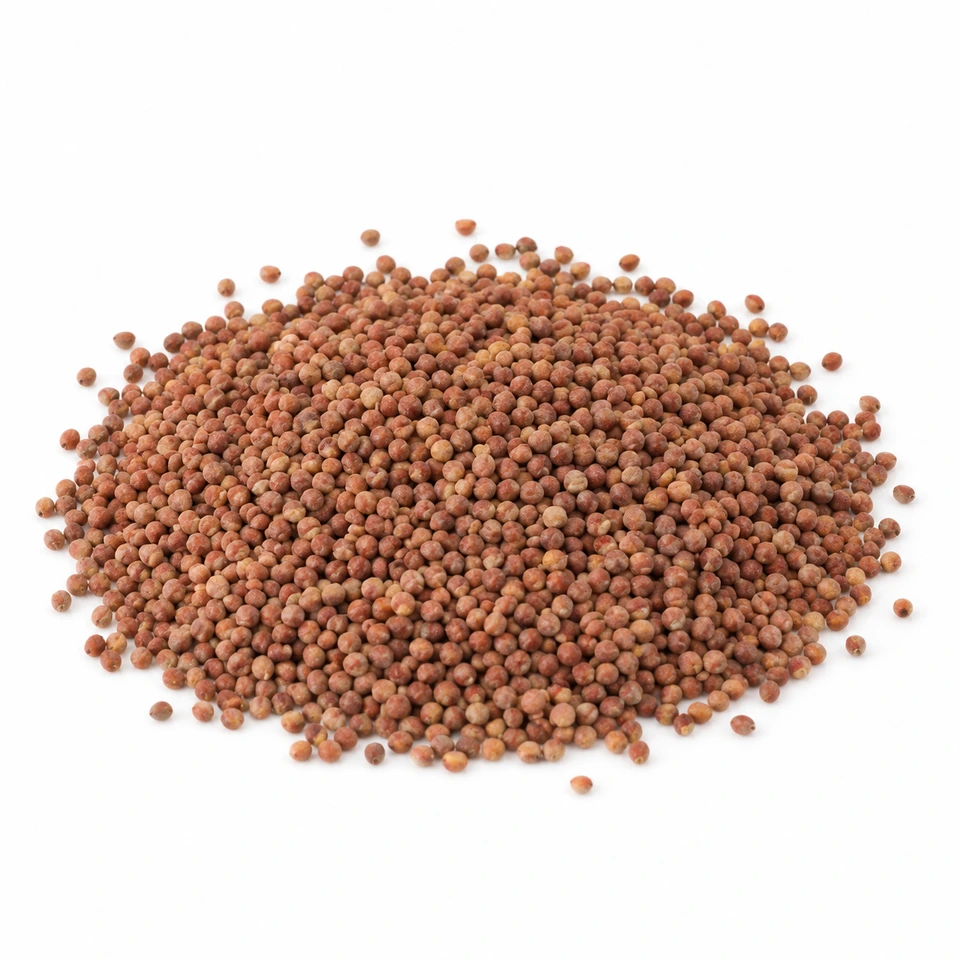
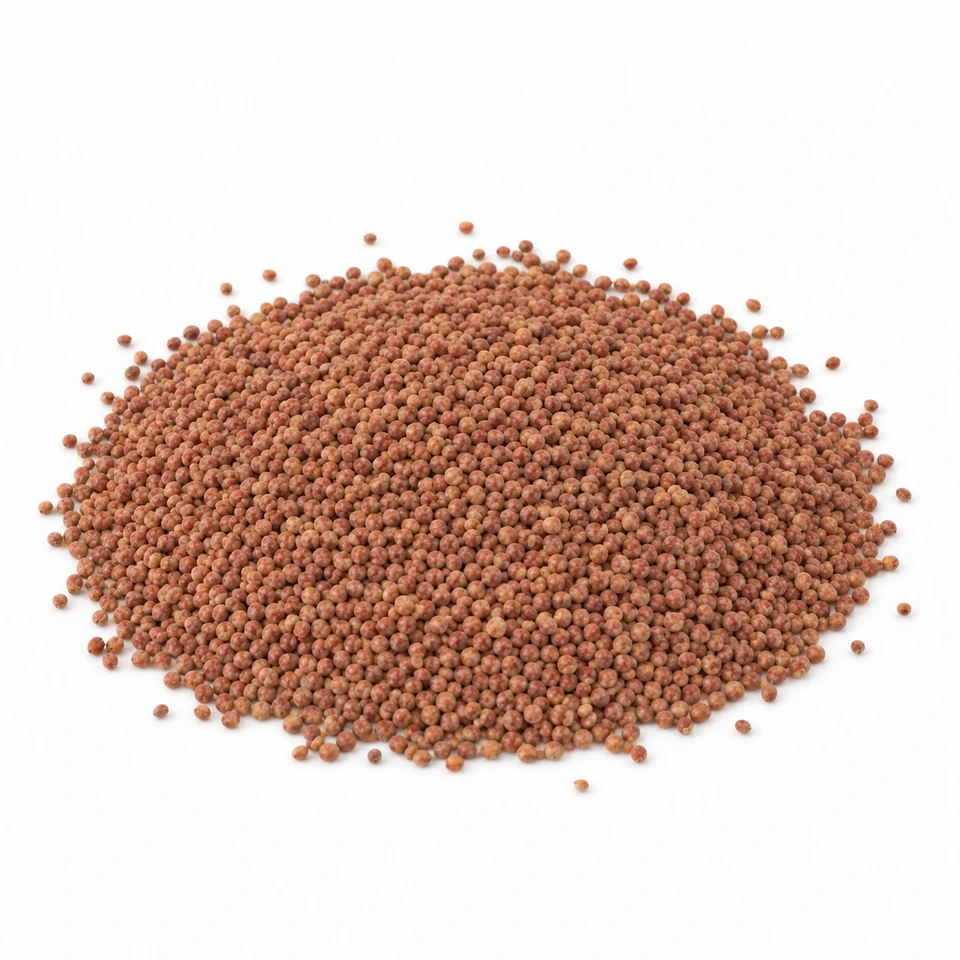
Reduce radish seed grain size and darken roasted seeds to black-brown

Changed region(s): [[0.0312, 0.2188, 0.9688, 0.8125], [0.5938, 0.8125, 0.625, 0.8438]]

diff --git a/app/ProductImage.js b/app/ProductImage.js
@@ -8,7 +8,7 @@ export default function ProductImage({ src, name, origin }) {
   const visible = Boolean(src) && !failed;
   const reference = src?.startsWith("/products-reference/");
   const localPhoto = reference || src?.startsWith("/products/");
-  const imageSrc = localPhoto ? `${src}${src.includes("?") ? "&" : "?"}photo=${src.split("?")[0] === "/products-reference/uniform-20261029/herb-001.webp" ? "gaja-20261117-v1" : src.split("?")[0] === "/products-reference/uniform-20261029/herb-003-v2.webp" ? "galgeun-20261117-v1" : src.split("?")[0] === "/products-reference/uniform-20261029/herb-004.webp" ? "galhwa-20261118-v1" : src.split("?")[0] === "/products-reference/uniform-20261029/herb-005.webp" ? "gamguk-20261118-v1" : src.split("?")[0] === "/products-reference/uniform-20261029/gamin-geomin.webp" ? "geomin-20261118-v1" : src.split("?")[0] === "/products-reference/uniform-20261029/herb-007.webp" ? "licorice-20261118-v1" : src.split("?")[0] === "/products-reference/uniform-20261029/gamcho-yangwai1-20261118.webp" ? "yangwai1-20261118-v3" : src.split("?")[0] === "/products-reference/uniform-20261029/gamcho-roasted-v2.webp" ? "roasted-20261118-v2" : src.split("?")[0].startsWith("/products-reference/uniform-20261029/gamcho-roasted-") ? "roasted-20261118-v2" : src.split("?")[0] === "/products-reference/uniform-20261029/herb-008.webp" ? "ganghwal-20261118-v1" : src.split("?")[0] === "/products-reference/uniform-20261029/herb-009-v2.webp" ? "jamganghwal-20261118-v3" : src.split("?")[0] === "/products-reference/uniform-20261029/herb-010.webp" ? "ganghwang-20261118-v2" : src.split("?")[0] === "/products-reference/uniform-20261029/herb-011.webp" ? "gaeja-20261118-v1" : src.split("?")[0] === "/products-reference/uniform-20261029/herb-012.webp" ? "ginger-20261118-v3" : src.split("?")[0] === "/products-reference/uniform-20261029/herb-013-v2.webp" ? "ginger-roasted-20261118-v1" : src.split("?")[0] === "/products-reference/uniform-20261029/ginger-domestic-20261118.webp" ? "ginger-domestic-20261118-v2" : src.split("?")[0] === "/products-reference/uniform-20261029/herb-014-v3.webp" ? "chestnut-20261118-v1" : src.split("?")[0] === "/products-reference/uniform-20261029/herb-015-v2.webp" ? "pharbitis-20261118-v1" : src.split("?")[0] === "/products-reference/uniform-20261029/herb-016.webp" ? "cassia-20261118-v1" : src.split("?")[0] === "/products-reference/uniform-20261029/herb-017-v2.webp" ? "gizzard-20261118-v1" : src.split("?")[0] === "/products-reference/uniform-20261029/herb-018-v2.webp" ? "gizzard-roasted-20261118-v1" : src.split("?")[0] === "/products-reference/uniform-20261029/herb-019-v3.webp" ? "twig-20261118-v1" : src.split("?")[0] === "/products-reference/uniform-20261029/herb-020.webp" ? "vine-20261118-v1" : src.split("?")[0] === "/products-reference/uniform-20261029/herb-021.webp" ? "galangal-20261118-v1" : src.split("?")[0] === "/products-reference/uniform-20261029/gobon-domestic-20261118.webp" ? "gobon-dom-20261118-v1" : src.split("?")[0] === "/products-reference/uniform-20261029/herb-022.webp" ? "gobon-imp-20261118-v1" : src.split("?")[0] === "/products-reference/uniform-20261029/herb-023-v2.webp" ? "sophora-20261118-v1" : src.split("?")[0] === "/products-reference/uniform-20261029/herb-024-v2.webp" ? "mistletoe-20261118-v1" : src.split("?")[0] === "/products-reference/uniform-20261029/herb-025.webp" ? "rice-20261118-v1" : src.split("?")[0] === "/products-reference/uniform-20261029/herb-026-v2.webp" ? "drynaria-20261118-v1" : src.split("?")[0] === "/products-reference/uniform-20261029/herb-027-v2.webp" ? "fruit-20261118-v1" : src.split("?")[0] === "/products-reference/uniform-20261029/gwakhyang.webp" ? "agastache-20261118-v1" : src.split("?")[0] === "/products-reference/uniform-20261029/herb-028-v2.webp" ? "coltsfoot-20261118-v1" : src.split("?")[0] === "/products-reference/uniform-20261029/gwallugeun-domestic-20261118.webp" ? "trich-dom-20261118-v1" : src.split("?")[0] === "/products-reference/uniform-20261029/herb-029-v2.webp" ? "trich-imp-20261118-v1" : src.split("?")[0] === "/products-reference/uniform-20261029/herb-031.webp" ? "seed-whole-20261119-v1" : src.split("?")[0] === "/products-reference/uniform-20261029/herb-030-v2.webp" ? "seed-coarse-20261119-v1" : src.split("?")[0] === "/products-reference/uniform-20261029/herb-032-v3.webp" ? "patchouli-20261119-v1" : src.split("?")[0] === "/products-reference/uniform-20261029/herb-033-v3.webp" ? "sophorabud-20261119-v1" : src.split("?")[0] === "/products-reference/uniform-20261029/gugija-domestic-20261119.webp" ? "goji-dom-20261119-v1" : src.split("?")[0] === "/products-reference/uniform-20261029/gugija-large-20261119.webp" ? "goji-large-20261119-v1" : src.split("?")[0] === "/products-reference/uniform-20261029/gugija-premium-20261119.webp" ? "goji-premium-20261119-v2" : src.split("?")[0] === "/products-reference/uniform-20261029/herb-035-v2.webp" ? "dianthus-20261119-v1" : src.split("?")[0] === "/products-reference/uniform-20261029/herb-036.webp" ? "chiveseed-20261119-v1" : src.split("?")[0] === "/products-reference/uniform-20261029/gujeolcho.webp" ? "gujeolcho-20261119-v1" : src.split("?")[0] === "/products-reference/uniform-20261029/herb-037-v2.webp" ? "cibotium-20261119-v1" : src.split("?")[0] === "/products-reference/uniform-20261029/herb-038.webp" ? "plastron-20261119-v1" : src.split("?")[0] === "/products-reference/uniform-20261029/herb-040-v2.webp" ? "rosefruit-20261119-v1" : src.split("?")[0] === "/products-reference/uniform-20261029/herb-041-v3.webp" ? "honeysuckle-20261119-v1" : src.split("?")[0] === "/products-reference/uniform-20261029/herb-042.webp" ? "lysimachia-20261119-v1" : src.split("?")[0] === "/products-reference/uniform-20261029/gilgyeong-domestic-20261119.webp" ? "platy-dom-20261119-v1" : src.split("?")[0] === "/products-reference/uniform-20261029/herb-043-v2.webp" ? "platy-imp-20261119-v1" : src.split("?")[0] === "/products-reference/uniform-20261029/herb-044-v2.webp" ? "radish-20261119-v1" : src.split("?")[0] === "/products-reference/uniform-20261029/herb-048-v2.webp" ? "radish-coarse-20261119-v1" : src.split("?")[0] === "/products-reference/uniform-20261029/herb-046-v2.webp" ? "arisaema-20261119-v1" : src.split("?")[0] === "/products-reference/uniform-20261029/herb-047-v2.webp" ? "arisaema-alum-20261119-v1" : src.split("?")[0] === "/products-reference/uniform-20261029/herb-045-v2.webp" ? "vinecut-20261119-v1" : src.split("?")[0] === "/products-reference/uniform-20261029/herb-049-v2.webp" ? "radish-roasted-20261119-v1" : "linen-20261116-v2"}` : src;
+  const imageSrc = localPhoto ? `${src}${src.includes("?") ? "&" : "?"}photo=${src.split("?")[0] === "/products-reference/uniform-20261029/herb-001.webp" ? "gaja-20261117-v1" : src.split("?")[0] === "/products-reference/uniform-20261029/herb-003-v2.webp" ? "galgeun-20261117-v1" : src.split("?")[0] === "/products-reference/uniform-20261029/herb-004.webp" ? "galhwa-20261118-v1" : src.split("?")[0] === "/products-reference/uniform-20261029/herb-005.webp" ? "gamguk-20261118-v1" : src.split("?")[0] === "/products-reference/uniform-20261029/gamin-geomin.webp" ? "geomin-20261118-v1" : src.split("?")[0] === "/products-reference/uniform-20261029/herb-007.webp" ? "licorice-20261118-v1" : src.split("?")[0] === "/products-reference/uniform-20261029/gamcho-yangwai1-20261118.webp" ? "yangwai1-20261118-v3" : src.split("?")[0] === "/products-reference/uniform-20261029/gamcho-roasted-v2.webp" ? "roasted-20261118-v2" : src.split("?")[0].startsWith("/products-reference/uniform-20261029/gamcho-roasted-") ? "roasted-20261118-v2" : src.split("?")[0] === "/products-reference/uniform-20261029/herb-008.webp" ? "ganghwal-20261118-v1" : src.split("?")[0] === "/products-reference/uniform-20261029/herb-009-v2.webp" ? "jamganghwal-20261118-v3" : src.split("?")[0] === "/products-reference/uniform-20261029/herb-010.webp" ? "ganghwang-20261118-v2" : src.split("?")[0] === "/products-reference/uniform-20261029/herb-011.webp" ? "gaeja-20261118-v1" : src.split("?")[0] === "/products-reference/uniform-20261029/herb-012.webp" ? "ginger-20261118-v3" : src.split("?")[0] === "/products-reference/uniform-20261029/herb-013-v2.webp" ? "ginger-roasted-20261118-v1" : src.split("?")[0] === "/products-reference/uniform-20261029/ginger-domestic-20261118.webp" ? "ginger-domestic-20261118-v2" : src.split("?")[0] === "/products-reference/uniform-20261029/herb-014-v3.webp" ? "chestnut-20261118-v1" : src.split("?")[0] === "/products-reference/uniform-20261029/herb-015-v2.webp" ? "pharbitis-20261118-v1" : src.split("?")[0] === "/products-reference/uniform-20261029/herb-016.webp" ? "cassia-20261118-v1" : src.split("?")[0] === "/products-reference/uniform-20261029/herb-017-v2.webp" ? "gizzard-20261118-v1" : src.split("?")[0] === "/products-reference/uniform-20261029/herb-018-v2.webp" ? "gizzard-roasted-20261118-v1" : src.split("?")[0] === "/products-reference/uniform-20261029/herb-019-v3.webp" ? "twig-20261118-v1" : src.split("?")[0] === "/products-reference/uniform-20261029/herb-020.webp" ? "vine-20261118-v1" : src.split("?")[0] === "/products-reference/uniform-20261029/herb-021.webp" ? "galangal-20261118-v1" : src.split("?")[0] === "/products-reference/uniform-20261029/gobon-domestic-20261118.webp" ? "gobon-dom-20261118-v1" : src.split("?")[0] === "/products-reference/uniform-20261029/herb-022.webp" ? "gobon-imp-20261118-v1" : src.split("?")[0] === "/products-reference/uniform-20261029/herb-023-v2.webp" ? "sophora-20261118-v1" : src.split("?")[0] === "/products-reference/uniform-20261029/herb-024-v2.webp" ? "mistletoe-20261118-v1" : src.split("?")[0] === "/products-reference/uniform-20261029/herb-025.webp" ? "rice-20261118-v1" : src.split("?")[0] === "/products-reference/uniform-20261029/herb-026-v2.webp" ? "drynaria-20261118-v1" : src.split("?")[0] === "/products-reference/uniform-20261029/herb-027-v2.webp" ? "fruit-20261118-v1" : src.split("?")[0] === "/products-reference/uniform-20261029/gwakhyang.webp" ? "agastache-20261118-v1" : src.split("?")[0] === "/products-reference/uniform-20261029/herb-028-v2.webp" ? "coltsfoot-20261118-v1" : src.split("?")[0] === "/products-reference/uniform-20261029/gwallugeun-domestic-20261118.webp" ? "trich-dom-20261118-v1" : src.split("?")[0] === "/products-reference/uniform-20261029/herb-029-v2.webp" ? "trich-imp-20261118-v1" : src.split("?")[0] === "/products-reference/uniform-20261029/herb-031.webp" ? "seed-whole-20261119-v1" : src.split("?")[0] === "/products-reference/uniform-20261029/herb-030-v2.webp" ? "seed-coarse-20261119-v1" : src.split("?")[0] === "/products-reference/uniform-20261029/herb-032-v3.webp" ? "patchouli-20261119-v1" : src.split("?")[0] === "/products-reference/uniform-20261029/herb-033-v3.webp" ? "sophorabud-20261119-v1" : src.split("?")[0] === "/products-reference/uniform-20261029/gugija-domestic-20261119.webp" ? "goji-dom-20261119-v1" : src.split("?")[0] === "/products-reference/uniform-20261029/gugija-large-20261119.webp" ? "goji-large-20261119-v1" : src.split("?")[0] === "/products-reference/uniform-20261029/gugija-premium-20261119.webp" ? "goji-premium-20261119-v2" : src.split("?")[0] === "/products-reference/uniform-20261029/herb-035-v2.webp" ? "dianthus-20261119-v1" : src.split("?")[0] === "/products-reference/uniform-20261029/herb-036.webp" ? "chiveseed-20261119-v1" : src.split("?")[0] === "/products-reference/uniform-20261029/gujeolcho.webp" ? "gujeolcho-20261119-v1" : src.split("?")[0] === "/products-reference/uniform-20261029/herb-037-v2.webp" ? "cibotium-20261119-v1" : src.split("?")[0] === "/products-reference/uniform-20261029/herb-038.webp" ? "plastron-20261119-v1" : src.split("?")[0] === "/products-reference/uniform-20261029/herb-040-v2.webp" ? "rosefruit-20261119-v1" : src.split("?")[0] === "/products-reference/uniform-20261029/herb-041-v3.webp" ? "honeysuckle-20261119-v1" : src.split("?")[0] === "/products-reference/uniform-20261029/herb-042.webp" ? "lysimachia-20261119-v1" : src.split("?")[0] === "/products-reference/uniform-20261029/gilgyeong-domestic-20261119.webp" ? "platy-dom-20261119-v1" : src.split("?")[0] === "/products-reference/uniform-20261029/herb-043-v2.webp" ? "platy-imp-20261119-v1" : src.split("?")[0] === "/products-reference/uniform-20261029/herb-044-v2.webp" ? "radish-20261119-v2" : src.split("?")[0] === "/products-reference/uniform-20261029/herb-048-v2.webp" ? "radish-coarse-20261119-v1" : src.split("?")[0] === "/products-reference/uniform-20261029/herb-046-v2.webp" ? "arisaema-20261119-v1" : src.split("?")[0] === "/products-reference/uniform-20261029/herb-047-v2.webp" ? "arisaema-alum-20261119-v1" : src.split("?")[0] === "/products-reference/uniform-20261029/herb-045-v2.webp" ? "vinecut-20261119-v1" : src.split("?")[0] === "/products-reference/uniform-20261029/herb-049-v2.webp" ? "radish-roasted-20261119-v2" : "linen-20261116-v2"}` : src;
   const domesticGalgeun = /^갈근(?:\s*\((?:사각|강원문막)\))?$/.test(name || "")
     && /국내산|국산|한국|대한민국/.test(origin || "")
     && src?.split("?")[0] === "/products-reference/uniform-20261029/herb-003-v2.webp";
